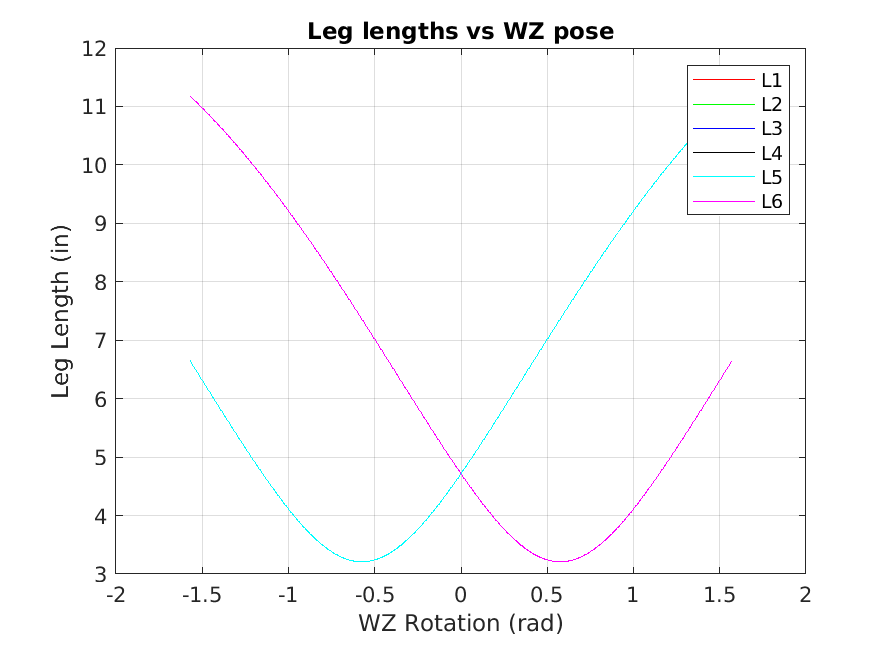
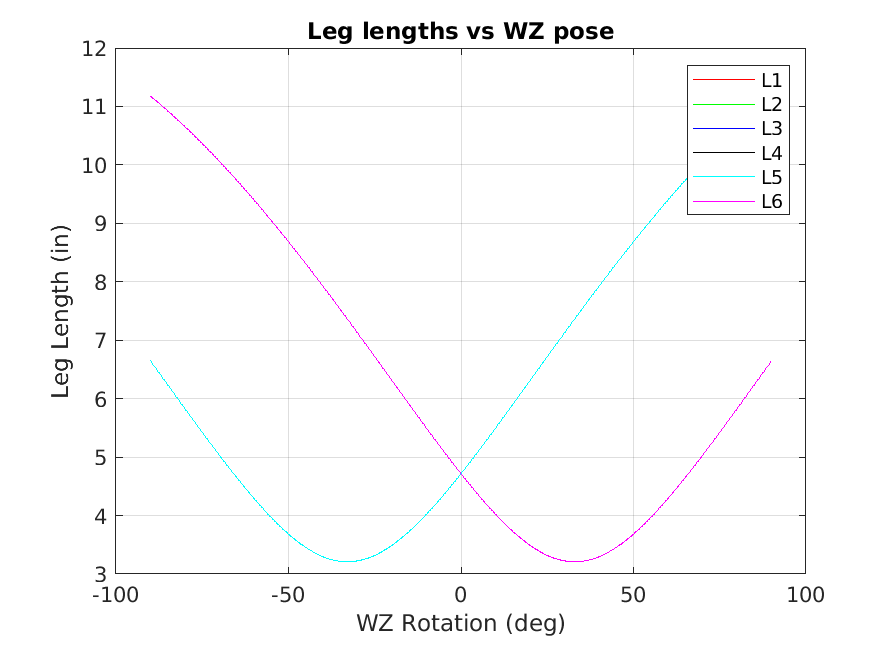
more work refining range of motion

diff --git a/MATLAB/stewartPlatformCalcs.m b/MATLAB/stewartPlatformCalcs.m
@@ -10,14 +10,15 @@ numLegs = 6;
 topR = 5.65;
 botR = 6.57;
 
-Lmin = 4.724-1; % rod length - Minus and arbitrary 1.5 inches (will have to test this definitively on actual model)
+rodLength = 4.724;
+Lmin = rodLength-2; % rod length - Minus and arbitrary 2 inches (will have to test this definitively on actual model). Need ot increase the number you subtract to increse range of motion
 servoL = 2; % servo horn length
 
 maxServoAngDeg = 90; % maximum servo arm angle wrt horizontal
 maxServoAngRad = deg2rad(maxServoAngDeg);
 
 [addL, ~] = lawCos(0,servoL,servoL,maxServoAngRad); % get the leg length that you are adding to the overall rod length
-Lmax = addL+Lmin;% leg length max when max angle is 80 degrees (could change in the future)
+Lmax = addL+rodLength;% leg length max when max angle is 80 degrees (could change in the future)
 
 
 % Top Angles for S Vectors
@@ -127,65 +128,65 @@ saveas(figLegLengthZPose,'figLegLengthZPose.png');
 
 
 figLegLengthWXPose = figure('Name', 'Leg lengths vs WX pose');
-plot(wxSet,wxLMagPlot(:,1), '-r')
+plot(rad2deg(wxSet),wxLMagPlot(:,1), '-r')
 hold on
-plot(wxSet,wxLMagPlot(:,2), '-g')
+plot(rad2deg(wxSet),wxLMagPlot(:,2), '-g')
 hold on
-plot(wxSet,wxLMagPlot(:,3), '-b')
+plot(rad2deg(wxSet),wxLMagPlot(:,3), '-b')
 hold on
-plot(wxSet,wxLMagPlot(:,4), '-k')
+plot(rad2deg(wxSet),wxLMagPlot(:,4), '-k')
 hold on
-plot(wxSet,wxLMagPlot(:,5), '-c')
+plot(rad2deg(wxSet),wxLMagPlot(:,5), '-c')
 hold on
-plot(wxSet,wxLMagPlot(:,6), '-m')
+plot(rad2deg(wxSet),wxLMagPlot(:,6), '-m')
 hold on
 legend('L1','L2','L3','L4','L5','L6')
 grid on
 title('Leg lengths vs WX pose')
-xlabel('Wx Rotation (rad)')
+xlabel('Wx Rotation (deg)')
 ylabel('Leg Length (in)')
 saveas(figLegLengthWXPose,'figLegLengthWXPose.png');
 
 
 
 figLegLengthWYPose = figure('Name', 'Leg lengths vs WY pose');
-plot(wySet,wyLMagPlot(:,1), '-r')
+plot(rad2deg(wySet),wyLMagPlot(:,1), '-r')
 hold on
-plot(wySet,wyLMagPlot(:,2), '-g')
+plot(rad2deg(wySet),wyLMagPlot(:,2), '-g')
 hold on
-plot(wySet,wyLMagPlot(:,3), '-b')
+plot(rad2deg(wySet),wyLMagPlot(:,3), '-b')
 hold on
-plot(wySet,wyLMagPlot(:,4), '-k')
+plot(rad2deg(wySet),wyLMagPlot(:,4), '-k')
 hold on
-plot(wySet,wyLMagPlot(:,5), '-c')
+plot(rad2deg(wySet),wyLMagPlot(:,5), '-c')
 hold on
-plot(wySet,wyLMagPlot(:,6), '-m')
+plot(rad2deg(wySet),wyLMagPlot(:,6), '-m')
 hold on
 legend('L1','L2','L3','L4','L5','L6')
 grid on
 title('Leg lengths vs WY pose')
-xlabel('Wy Rotation (rad)')
+xlabel('Wy Rotation (deg)')
 ylabel('Leg Length (in)')
 saveas(figLegLengthWYPose,'figLegLengthWYPose.png');
 
 
 figLegLengthWZPose = figure('Name', 'Leg lengths vs WZ pose');
-plot(wzSet,wzLMagPlot(:,1), '-r')
+plot(rad2deg(wzSet),wzLMagPlot(:,1), '-r')
 hold on
-plot(wzSet,wzLMagPlot(:,2), '-g')
+plot(rad2deg(wzSet),wzLMagPlot(:,2), '-g')
 hold on
-plot(wzSet,wzLMagPlot(:,3), '-b')
+plot(rad2deg(wzSet),wzLMagPlot(:,3), '-b')
 hold on
-plot(wzSet,wzLMagPlot(:,4), '-k')
+plot(rad2deg(wzSet),wzLMagPlot(:,4), '-k')
 hold on
-plot(wzSet,wzLMagPlot(:,5), '-c')
+plot(rad2deg(wzSet),wzLMagPlot(:,5), '-c')
 hold on
-plot(wzSet,wzLMagPlot(:,6), '-m')
+plot(rad2deg(wzSet),wzLMagPlot(:,6), '-m')
 hold on
 legend('L1','L2','L3','L4','L5','L6')
 grid on
 title('Leg lengths vs WZ pose')
-xlabel('WZ Rotation (rad)')
+xlabel('WZ Rotation (deg)')
 ylabel('Leg Length (in)')
 saveas(figLegLengthWZPose,'figLegLengthWZPose.png');
 
@@ -311,65 +312,65 @@ saveas(figLegLengthZPoseNew,'figLegLengthZPoseNew.png');
 
 
 figLegLengthWXPoseNew = figure('Name', 'NewLeg lengths vs WX pose');
-plot(refinedWXLSet,wxLMagPlotNew(:,1), '-r')
+plot(rad2deg(refinedWXLSet),wxLMagPlotNew(:,1), '-r')
 hold on
-plot(refinedWXLSet,wxLMagPlotNew(:,2), '-g')
+plot(rad2deg(refinedWXLSet),wxLMagPlotNew(:,2), '-g')
 hold on
-plot(refinedWXLSet,wxLMagPlotNew(:,3), '-b')
+plot(rad2deg(refinedWXLSet),wxLMagPlotNew(:,3), '-b')
 hold on
-plot(refinedWXLSet,wxLMagPlotNew(:,4), '-k')
+plot(rad2deg(refinedWXLSet),wxLMagPlotNew(:,4), '-k')
 hold on
-plot(refinedWXLSet,wxLMagPlotNew(:,5), '-c')
+plot(rad2deg(refinedWXLSet),wxLMagPlotNew(:,5), '-c')
 hold on
-plot(refinedWXLSet,wxLMagPlotNew(:,6), '-m')
+plot(rad2deg(refinedWXLSet),wxLMagPlotNew(:,6), '-m')
 hold on
 legend('L1','L2','L3','L4','L5','L6')
 grid on
 title('New Leg lengths vs WX pose')
-xlabel('Wx Rotation (rad)')
+xlabel('Wx Rotation (deg)')
 ylabel('Leg Length (in)')
 saveas(figLegLengthWXPoseNew,'figLegLengthWXPoseNew.png');
 
 
 
 figLegLengthWYPoseNew = figure('Name', 'New Leg lengths vs WY pose');
-plot(refinedWYLSet,wyLMagPlotNew(:,1), '-r')
+plot(rad2deg(refinedWYLSet),wyLMagPlotNew(:,1), '-r')
 hold on
-plot(refinedWYLSet,wyLMagPlotNew(:,2), '-g')
+plot(rad2deg(refinedWYLSet),wyLMagPlotNew(:,2), '-g')
 hold on
-plot(refinedWYLSet,wyLMagPlotNew(:,3), '-b')
+plot(rad2deg(refinedWYLSet),wyLMagPlotNew(:,3), '-b')
 hold on
-plot(refinedWYLSet,wyLMagPlotNew(:,4), '-k')
+plot(rad2deg(refinedWYLSet),wyLMagPlotNew(:,4), '-k')
 hold on
-plot(refinedWYLSet,wyLMagPlotNew(:,5), '-c')
+plot(rad2deg(refinedWYLSet),wyLMagPlotNew(:,5), '-c')
 hold on
-plot(refinedWYLSet,wyLMagPlotNew(:,6), '-m')
+plot(rad2deg(refinedWYLSet),wyLMagPlotNew(:,6), '-m')
 hold on
 legend('L1','L2','L3','L4','L5','L6')
 grid on
 title('New Leg lengths vs WY pose')
-xlabel('Wy Rotation (rad)')
+xlabel('Wy Rotation (deg)')
 ylabel('Leg Length (in)')
 saveas(figLegLengthWYPoseNew,'figLegLengthWYPoseNew.png');
 
 
 figLegLengthWZPoseNew = figure('Name', 'New Leg lengths vs WZ pose');
-plot(refinedWZLSet,wzLMagPlotNew(:,1), '-r')
+plot(rad2deg(refinedWZLSet),wzLMagPlotNew(:,1), '-r')
 hold on
-plot(refinedWZLSet,wzLMagPlotNew(:,2), '-g')
+plot(rad2deg(refinedWZLSet),wzLMagPlotNew(:,2), '-g')
 hold on
-plot(refinedWZLSet,wzLMagPlotNew(:,3), '-b')
+plot(rad2deg(refinedWZLSet),wzLMagPlotNew(:,3), '-b')
 hold on
-plot(refinedWZLSet,wzLMagPlotNew(:,4), '-k')
+plot(rad2deg(refinedWZLSet),wzLMagPlotNew(:,4), '-k')
 hold on
-plot(refinedWZLSet,wzLMagPlotNew(:,5), '-c')
+plot(rad2deg(refinedWZLSet),wzLMagPlotNew(:,5), '-c')
 hold on
-plot(refinedWZLSet,wzLMagPlotNew(:,6), '-m')
+plot(rad2deg(refinedWZLSet),wzLMagPlotNew(:,6), '-m')
 hold on
 legend('L1','L2','L3','L4','L5','L6')
 grid on
 title('New Leg lengths vs WZ pose')
-xlabel('WZ Rotation (rad)')
+xlabel('WZ Rotation (deg)')
 ylabel('Leg Length (in)')
 saveas(figLegLengthWZPoseNew,'figLegLengthWZPoseNew.png');
 
